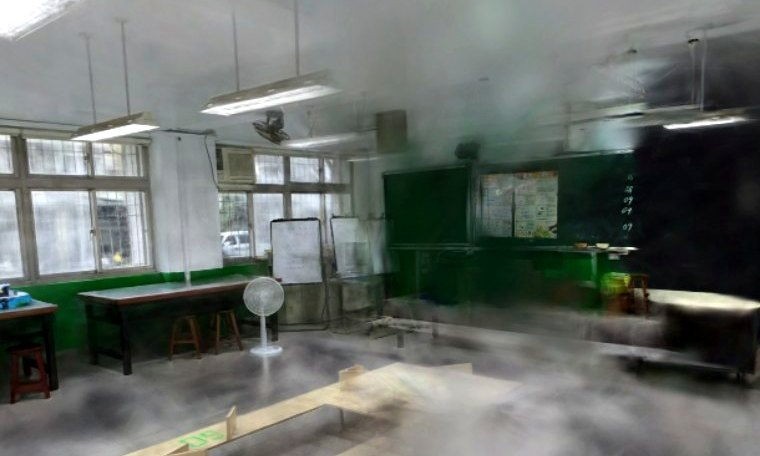
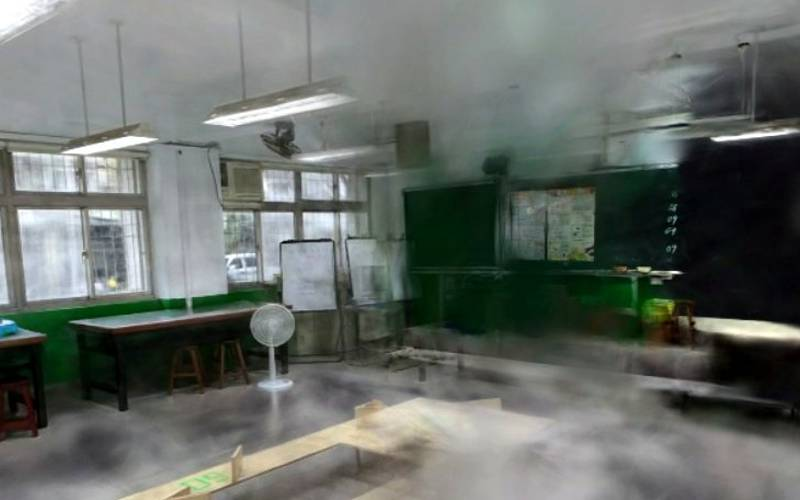
圖片瘦身：依實際顯示尺寸重出（首屏 1600/960 兩檔、拼貼 800×600、作品截圖 800×500）並加 WebP 版本，picture 元素＋寬高屬性；首頁圖片總量 2.1 MB → 0.58 MB

diff --git a/index.html b/index.html
@@ -33,7 +33,10 @@
 
 <!-- ====== 首屏：滿版實拍 ====== -->
 <header class="w-hero">
-  <img src="/assets/photos/parts-spinner.jpg" alt="雷切指尖陀螺的零件與軸承，排在黑色桌面上" fetchpriority="high">
+  <picture>
+    <source type="image/webp" srcset="/assets/photos/parts-spinner-960.webp 960w, /assets/photos/parts-spinner.webp 1600w" sizes="100vw">
+    <img src="/assets/photos/parts-spinner.jpg" srcset="/assets/photos/parts-spinner-960.jpg 960w, /assets/photos/parts-spinner.jpg 1600w" sizes="100vw" width="1600" height="1064" alt="雷切指尖陀螺的零件與軸承，排在黑色桌面上" fetchpriority="high" decoding="async">
+  </picture>
   <div class="scrim" aria-hidden="true"></div>
   <div class="copy">
     <div class="wrap">
@@ -55,27 +58,27 @@
     </div>
     <div class="w-collage">
       <a class="c-5x4" href="/laser-cut-course/">
-        <img src="/assets/photos/spinner-hand.jpg" alt="手指壓入雷切指尖陀螺的軸承" loading="lazy">
+        <picture><source type="image/webp" srcset="/assets/photos/spinner-hand.webp"><img src="/assets/photos/spinner-hand.jpg" width="800" height="600" alt="手指壓入雷切指尖陀螺的軸承" loading="lazy" decoding="async"></picture>
         <span class="cap"><b>雷切指尖陀螺</b>　從圓規作圖到壓入軸承，一節課做完。學生自己量公差。</span>
       </a>
       <a class="c-3x3" href="/post.html?slug=2026-08-31-monthly-report">
-        <img src="/assets/photos/servo-kinetic.jpg" alt="夾板與伺服馬達組成的動態裝置" loading="lazy">
+        <picture><source type="image/webp" srcset="/assets/photos/servo-kinetic.webp"><img src="/assets/photos/servo-kinetic.jpg" width="800" height="600" alt="夾板與伺服馬達組成的動態裝置" loading="lazy" decoding="async"></picture>
         <span class="cap"><b>伺服動態裝置</b>　MP3 模組拆掉，改單顆蜂鳴器唱旋律。</span>
       </a>
       <a class="c-4x3" href="https://henrychao521.github.io/esp32-camera-display/" target="_blank" rel="noopener">
-        <img src="/assets/photos/esp32-camera.jpg" alt="XIAO ESP32-S3 接小螢幕顯示相機畫面" loading="lazy">
+        <picture><source type="image/webp" srcset="/assets/photos/esp32-camera.webp"><img src="/assets/photos/esp32-camera.jpg" width="800" height="600" alt="XIAO ESP32-S3 接小螢幕顯示相機畫面" loading="lazy" decoding="async"></picture>
         <span class="cap"><b>手作迷你相機</b>　XIAO ESP32-S3，濾鏡、拍照、傳輸都自己寫。</span>
       </a>
       <a class="c-3x3" href="/post.html?slug=2026-08-31-meshtastic-hardware-rebuild">
-        <img src="/assets/photos/mesh-node.jpg" alt="Meshtastic 隨身節點顯示訊息" loading="lazy">
+        <picture><source type="image/webp" srcset="/assets/photos/mesh-node.webp"><img src="/assets/photos/mesh-node.jpg" width="800" height="600" alt="Meshtastic 隨身節點顯示訊息" loading="lazy" decoding="async"></picture>
         <span class="cap"><b>家庭離線通訊</b>　LoRa 網狀，斷網也傳得到。</span>
       </a>
       <a class="c-4x3" href="/laser-cut-course/">
-        <img src="/assets/photos/laser-acrylic.jpg" alt="雷切壓克力盒在燈光下發亮" loading="lazy">
+        <picture><source type="image/webp" srcset="/assets/photos/laser-acrylic.webp"><img src="/assets/photos/laser-acrylic.jpg" width="800" height="600" alt="雷切壓克力盒在燈光下發亮" loading="lazy" decoding="async"></picture>
         <span class="cap"><b>雷切壓克力</b>　Maker Faire 的燈盒，切割線就是光線。</span>
       </a>
       <a class="c-4x3" href="/laser-cut-course/">
-        <img src="/assets/photos/sketch-spinner.jpg" alt="指尖陀螺的手繪幾何草圖" loading="lazy">
+        <picture><source type="image/webp" srcset="/assets/photos/sketch-spinner.webp"><img src="/assets/photos/sketch-spinner.jpg" width="800" height="600" alt="指尖陀螺的手繪幾何草圖" loading="lazy" decoding="async"></picture>
         <span class="cap"><b>先畫再切</b>　三等分圓心是這堂課真正的重點。</span>
       </a>
     </div>

diff --git a/assets/css/site.css b/assets/css/site.css
@@ -77,7 +77,8 @@ button { font: inherit; cursor: pointer; }
 
 /* 首屏：滿版實拍 */
 .w-hero { position: relative; height: clamp(520px, 78vh, 820px); overflow: hidden; background: #111; }
-.w-hero img { position: absolute; inset: 0; width: 100%; height: 100%; object-fit: cover; object-position: 50% 55%; }
+.w-hero picture, .w-hero img { position: absolute; inset: 0; width: 100%; height: 100%; }
+.w-hero img { object-fit: cover; object-position: 50% 55%; }
 .w-hero .scrim { position: absolute; inset: 0; background: linear-gradient(90deg, rgba(20,16,12,.72) 0%, rgba(20,16,12,.28) 55%, rgba(20,16,12,0) 100%); }
 .w-hero .copy { position: absolute; left: 0; right: 0; bottom: 56px; color: #fffbf0; }
 .w-hero h1 { margin: 0; font-size: clamp(38px, 6vw, 84px); font-weight: 900; line-height: 1.08; letter-spacing: -.01em; max-width: 14em; text-wrap: balance; }
@@ -105,7 +106,8 @@ button { font: inherit; cursor: pointer; }
 /* 照片拼貼：統一尺寸（3 欄、4:3 框），2026-09-07 依使用者要求由不等寬改為等寬 */
 .w-collage { display: grid; grid-template-columns: repeat(3, minmax(0, 1fr)); gap: 22px; margin-top: 26px; }
 .w-collage a { display: flex; flex-direction: column; gap: 10px; text-decoration: none; min-width: 0; }
-.w-collage img { width: 100%; aspect-ratio: 4 / 3; object-fit: cover; border: 3px solid var(--w-rule); background: #ddd; }
+.w-collage picture { display: block; }
+.w-collage img { width: 100%; aspect-ratio: 4 / 3; height: auto; object-fit: cover; border: 3px solid var(--w-rule); background: #ddd; }
 .w-collage .cap { font-size: 14px; line-height: 1.5; color: var(--w-muted); }
 .w-collage .cap b { color: var(--w-ink); }
 .w-collage .text-tile { border: 3px solid var(--w-rule); aspect-ratio: 4 / 3; padding: 18px 20px; display: flex; flex-direction: column; justify-content: flex-end; gap: 6px; background: #fff8e8; }
@@ -147,7 +149,8 @@ button { font: inherit; cursor: pointer; }
 /* 作品拼貼（線上作品的操作畫面截圖） */
 .w-shots { display: grid; grid-template-columns: repeat(3, minmax(0, 1fr)); gap: 22px; margin-top: 26px; }
 .w-shots a { text-decoration: none; min-width: 0; display: flex; flex-direction: column; gap: 10px; }
-.w-shots img { width: 100%; aspect-ratio: 16 / 10; object-fit: cover; object-position: top; border: 3px solid var(--w-rule); background: #ddd; }
+.w-shots picture { display: block; }
+.w-shots img { width: 100%; aspect-ratio: 16 / 10; height: auto; object-fit: cover; object-position: top; border: 3px solid var(--w-rule); background: #ddd; }
 .w-shots .text-tile { border: 3px solid var(--w-rule); background: #fff8e8; aspect-ratio: 16 / 10; display: flex; flex-direction: column; justify-content: flex-end; padding: 18px; }
 .w-shots .text-tile b { font-size: 20px; }
 .w-shots .cap { font-size: 14px; line-height: 1.5; color: var(--w-muted); }

diff --git a/assets/js/home.js b/assets/js/home.js
@@ -18,7 +18,7 @@ function renderFeaturedProjects() {
     const cover = NO_COVER.has(name) ? '' : (m.cover || `/assets/covers/${name}.jpg`);
     const blurb = m.blurb ? truncate(m.blurb, 46) : '';
     const visual = cover
-      ? `<img src="${cover}" alt="${m.title} 的操作畫面" loading="lazy">`
+      ? `<picture><source type="image/webp" srcset="${cover.replace(/\.jpg$/, '.webp')}"><img src="${cover}" width="800" height="500" alt="${m.title} 的操作畫面" loading="lazy" decoding="async"></picture>`
       : `<div class="text-tile"><b>${m.title}</b><span>${blurb}</span></div>`;
     return `
       <a class="${span}" href="${url}" target="_blank" rel="noopener">
